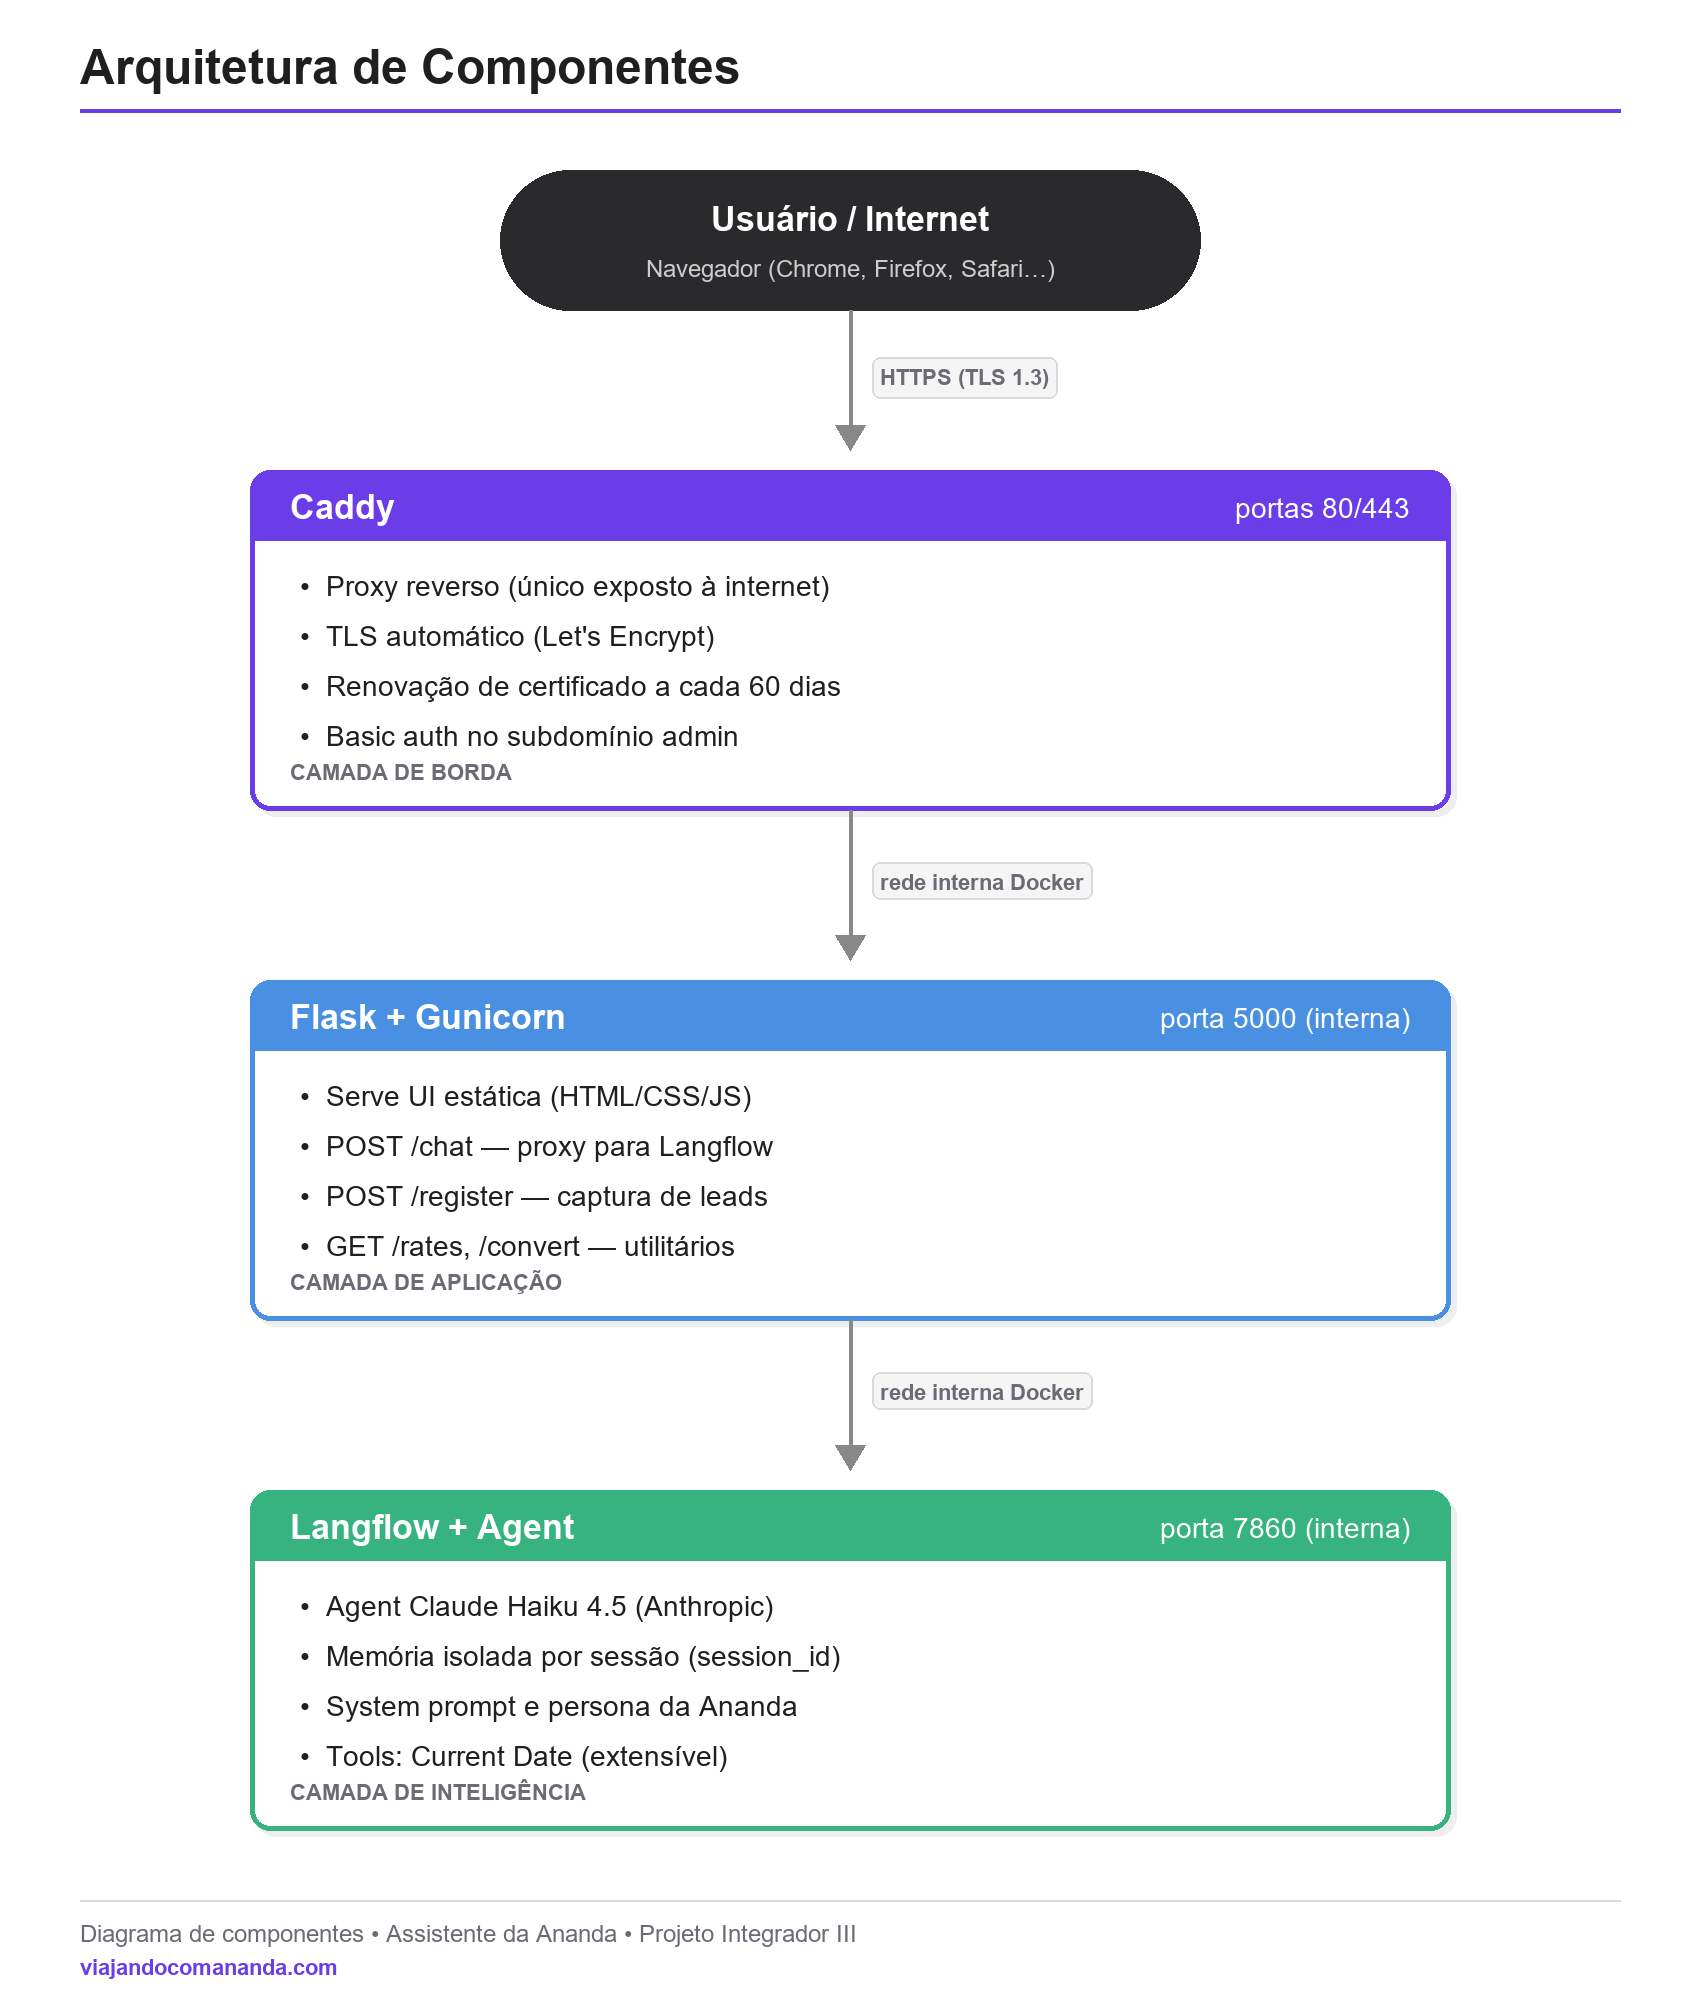
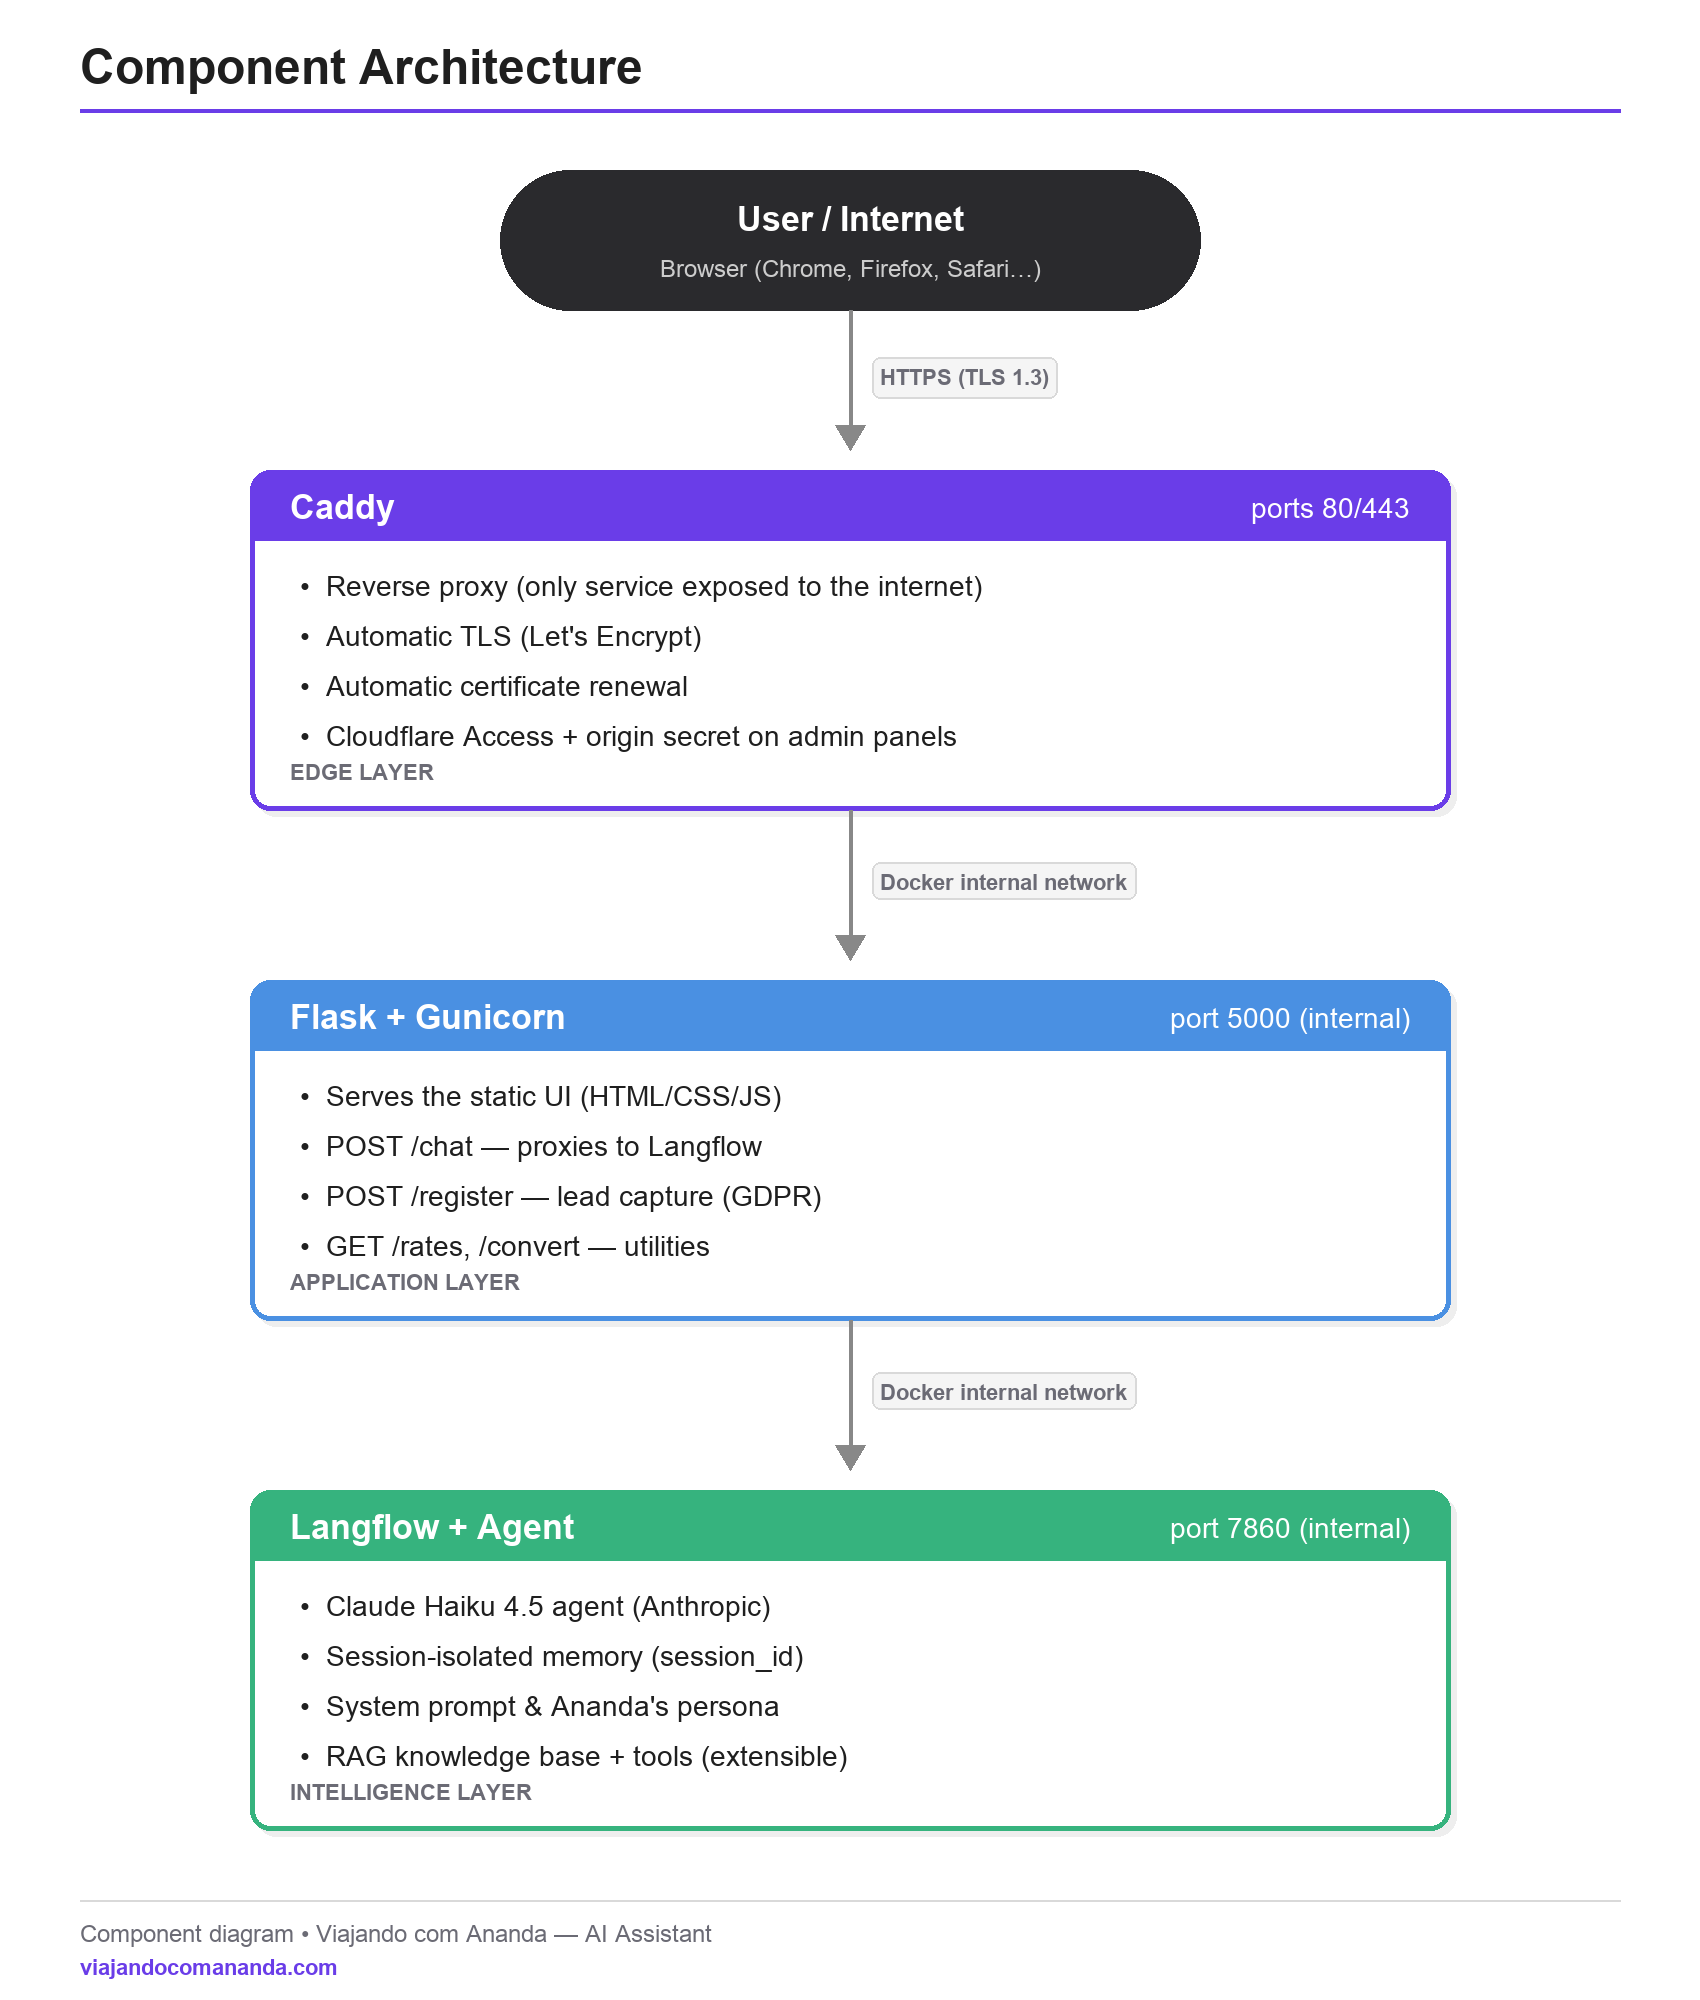
docs: diagrama de arquitetura em inglês (para o README)
- Traduz textos do gerador para inglês; fontes cross-platform (inclui macOS).
- Atualiza a linha de segurança do Caddy: Cloudflare Access + segredo de
  origem (o basic_auth foi removido na Fase 2).

diff --git a/docs/gerar_diagrama.py b/docs/gerar_diagrama.py
@@ -1,8 +1,8 @@
-"""Gera o diagrama de arquitetura como PNG (alta resolução, fundo claro)."""
+"""Generates the architecture diagram as a high-resolution PNG (light background)."""
 from PIL import Image, ImageDraw, ImageFont
 import os
 
-# Paleta de cores (alinhada com a identidade visual da aplicação)
+# Colour palette (aligned with the app's visual identity)
 ROXO_PRIMARIO = "#6A3DE8"
 ROXO_CLARO = "#F0ECFD"
 CINZA_ESCURO = "#1F1F1F"
@@ -14,25 +14,36 @@ COR_CADDY = "#6A3DE8"
 COR_FLASK = "#4A90E2"
 COR_LANGFLOW = "#36B37E"
 
-# Canvas (alta resolução para qualidade na impressão)
+# Canvas (high resolution for crisp rendering)
 LARGURA = 1700
 ALTURA = 2000
 MARGEM = 80
-LARGURA_BOX = 1200  # caixa centralizada
+LARGURA_BOX = 1200  # centred box
 OFFSET_BOX = (LARGURA - LARGURA_BOX) // 2
 
 img = Image.new("RGB", (LARGURA, ALTURA), "white")
 draw = ImageDraw.Draw(img)
 
-# Carregar fontes (fallback para default se não encontrar)
+
+# Load fonts (cross-platform: macOS, Windows, Linux; falls back to default)
 def carregar_fonte(tamanho, bold=False):
-    nomes = ["arialbd.ttf", "arial.ttf"] if bold else ["arial.ttf"]
-    for nome in nomes:
-        for base in ["C:/Windows/Fonts/", "/usr/share/fonts/truetype/dejavu/"]:
-            caminho = os.path.join(base, nome)
-            if os.path.exists(caminho):
-                return ImageFont.truetype(caminho, tamanho)
+    if bold:
+        candidatos = [
+            "/System/Library/Fonts/Supplemental/Arial Bold.ttf",
+            "C:/Windows/Fonts/arialbd.ttf",
+            "/usr/share/fonts/truetype/dejavu/DejaVuSans-Bold.ttf",
+        ]
+    else:
+        candidatos = [
+            "/System/Library/Fonts/Supplemental/Arial.ttf",
+            "C:/Windows/Fonts/arial.ttf",
+            "/usr/share/fonts/truetype/dejavu/DejaVuSans.ttf",
+        ]
+    for caminho in candidatos:
+        if os.path.exists(caminho):
+            return ImageFont.truetype(caminho, tamanho)
     return ImageFont.load_default()
+
 
 f_titulo = carregar_fonte(48, bold=True)
 f_subtitulo = carregar_fonte(34, bold=True)
@@ -40,21 +51,22 @@ f_corpo = carregar_fonte(28)
 f_pequena = carregar_fonte(24)
 f_legenda = carregar_fonte(22, bold=True)
 
+
 # ──────── Helpers ────────
 def caixa_arredondada(x1, y1, x2, y2, raio, fill, outline, largura_borda=4):
     draw.rounded_rectangle([x1, y1, x2, y2], radius=raio, fill=fill, outline=outline, width=largura_borda)
+
 
 def texto_centralizado(texto, x_centro, y, fonte, cor):
     bbox = draw.textbbox((0, 0), texto, font=fonte)
     largura = bbox[2] - bbox[0]
     draw.text((x_centro - largura // 2, y), texto, font=fonte, fill=cor)
 
+
 def seta_vertical(x, y_inicio, y_fim, label=None, label_lado="direita"):
-    """Desenha uma seta vertical com rótulo opcional ao lado."""
+    """Draws a vertical arrow with an optional side label."""
     cor = "#888888"
-    # Linha
     draw.line([(x, y_inicio), (x, y_fim - 20)], fill=cor, width=4)
-    # Ponta da seta (triângulo)
     draw.polygon(
         [(x - 15, y_fim - 25), (x + 15, y_fim - 25), (x, y_fim)],
         fill=cor,
@@ -67,7 +79,6 @@ def seta_vertical(x, y_inicio, y_fim, label=None, label_lado="direita"):
         altura_label = bbox[3] - bbox[1]
         if label_lado == "esquerda":
             x_label -= largura_label
-        # Caixa de fundo do label
         pad = 8
         draw.rounded_rectangle(
             [x_label - pad, y_label - pad, x_label + largura_label + pad, y_label + altura_label + pad + 5],
@@ -75,110 +86,104 @@ def seta_vertical(x, y_inicio, y_fim, label=None, label_lado="direita"):
         )
         draw.text((x_label, y_label), label, font=f_legenda, fill=CINZA_MEDIO)
 
+
 def caixa_componente(y_topo, altura, titulo, cor_titulo, porta, linhas_descricao, papel=None):
     x1 = OFFSET_BOX
     x2 = x1 + LARGURA_BOX
     y2 = y_topo + altura
 
-    # Sombra leve
     draw.rounded_rectangle([x1 + 6, y_topo + 6, x2 + 6, y2 + 6], radius=20, fill="#EEEEEE")
-    # Caixa principal
     caixa_arredondada(x1, y_topo, x2, y2, 20, fill=FUNDO_BOX, outline=cor_titulo, largura_borda=5)
-    # Barra colorida no topo da caixa
     draw.rounded_rectangle([x1, y_topo, x2, y_topo + 70], radius=20, fill=cor_titulo)
-    # Mascarar o arredondamento inferior da barra
     draw.rectangle([x1, y_topo + 50, x2, y_topo + 70], fill=cor_titulo)
 
-    # Texto do título (na barra colorida)
     draw.text((x1 + 40, y_topo + 18), titulo, font=f_subtitulo, fill="white")
-    # Porta (canto direito da barra)
     if porta:
         bbox = draw.textbbox((0, 0), porta, font=f_corpo)
         largura_porta = bbox[2] - bbox[0]
         draw.text((x2 - largura_porta - 40, y_topo + 22), porta, font=f_corpo, fill="white")
 
-    # Papel da camada (canto inferior direito da caixa)
     if papel:
         draw.text((x1 + 40, y2 - 50), papel, font=f_legenda, fill=CINZA_MEDIO)
 
-    # Linhas de descrição (corpo da caixa)
     y_desc = y_topo + 100
     for linha in linhas_descricao:
         draw.text((x1 + 50, y_desc), "•  " + linha, font=f_corpo, fill=CINZA_ESCURO)
         y_desc += 50
 
-# ──────── Título ────────
-draw.text((MARGEM, 40), "Arquitetura de Componentes", font=f_titulo, fill=CINZA_ESCURO)
+
+# ──────── Title ────────
+draw.text((MARGEM, 40), "Component Architecture", font=f_titulo, fill=CINZA_ESCURO)
 draw.line([(MARGEM, 110), (LARGURA - MARGEM, 110)], fill=ROXO_PRIMARIO, width=4)
 
-# ──────── Camada 1: Usuário/Internet ────────
+# ──────── Layer 1: User / Internet ────────
 y_user = 170
 x_user1 = LARGURA // 2 - 350
 x_user2 = LARGURA // 2 + 350
 caixa_arredondada(x_user1, y_user, x_user2, y_user + 140, 70, COR_INTERNET, COR_INTERNET, 4)
-texto_centralizado("Usuário / Internet", LARGURA // 2, y_user + 30, f_subtitulo, "white")
-texto_centralizado("Navegador (Chrome, Firefox, Safari…)", LARGURA // 2, y_user + 85, f_pequena, "#CCCCCC")
+texto_centralizado("User / Internet", LARGURA // 2, y_user + 30, f_subtitulo, "white")
+texto_centralizado("Browser (Chrome, Firefox, Safari…)", LARGURA // 2, y_user + 85, f_pequena, "#CCCCCC")
 
-# Seta 1 → Caddy
+# Arrow 1 → Caddy
 seta_vertical(LARGURA // 2, y_user + 140, y_user + 280, label="HTTPS (TLS 1.3)")
 
-# ──────── Camada 2: Caddy ────────
+# ──────── Layer 2: Caddy ────────
 y_caddy = y_user + 300
 altura_caddy = 340
 caixa_componente(
     y_caddy, altura_caddy,
-    "Caddy", COR_CADDY, "portas 80/443",
+    "Caddy", COR_CADDY, "ports 80/443",
     [
-        "Proxy reverso (único exposto à internet)",
-        "TLS automático (Let's Encrypt)",
-        "Renovação de certificado a cada 60 dias",
-        "Basic auth no subdomínio admin",
+        "Reverse proxy (only service exposed to the internet)",
+        "Automatic TLS (Let's Encrypt)",
+        "Automatic certificate renewal",
+        "Cloudflare Access + origin secret on admin panels",
     ],
-    papel="CAMADA DE BORDA",
+    papel="EDGE LAYER",
 )
 
-# Seta 2 → Flask
-seta_vertical(LARGURA // 2, y_caddy + altura_caddy, y_caddy + altura_caddy + 150, label="rede interna Docker")
+# Arrow 2 → Flask
+seta_vertical(LARGURA // 2, y_caddy + altura_caddy, y_caddy + altura_caddy + 150, label="Docker internal network")
 
-# ──────── Camada 3: Flask ────────
+# ──────── Layer 3: Flask ────────
 y_flask = y_caddy + altura_caddy + 170
 altura_flask = 340
 caixa_componente(
     y_flask, altura_flask,
-    "Flask + Gunicorn", COR_FLASK, "porta 5000 (interna)",
+    "Flask + Gunicorn", COR_FLASK, "port 5000 (internal)",
     [
-        "Serve UI estática (HTML/CSS/JS)",
-        "POST /chat — proxy para Langflow",
-        "POST /register — captura de leads",
-        "GET /rates, /convert — utilitários",
+        "Serves the static UI (HTML/CSS/JS)",
+        "POST /chat — proxies to Langflow",
+        "POST /register — lead capture (GDPR)",
+        "GET /rates, /convert — utilities",
     ],
-    papel="CAMADA DE APLICAÇÃO",
+    papel="APPLICATION LAYER",
 )
 
-# Seta 3 → Langflow
-seta_vertical(LARGURA // 2, y_flask + altura_flask, y_flask + altura_flask + 150, label="rede interna Docker")
+# Arrow 3 → Langflow
+seta_vertical(LARGURA // 2, y_flask + altura_flask, y_flask + altura_flask + 150, label="Docker internal network")
 
-# ──────── Camada 4: Langflow ────────
+# ──────── Layer 4: Langflow ────────
 y_langflow = y_flask + altura_flask + 170
 altura_langflow = 340
 caixa_componente(
     y_langflow, altura_langflow,
-    "Langflow + Agent", COR_LANGFLOW, "porta 7860 (interna)",
+    "Langflow + Agent", COR_LANGFLOW, "port 7860 (internal)",
     [
-        "Agent Claude Haiku 4.5 (Anthropic)",
-        "Memória isolada por sessão (session_id)",
-        "System prompt e persona da Ananda",
-        "Tools: Current Date (extensível)",
+        "Claude Haiku 4.5 agent (Anthropic)",
+        "Session-isolated memory (session_id)",
+        "System prompt & Ananda's persona",
+        "RAG knowledge base + tools (extensible)",
     ],
-    papel="CAMADA DE INTELIGÊNCIA",
+    papel="INTELLIGENCE LAYER",
 )
 
-# ──────── Rodapé com legenda ────────
+# ──────── Footer ────────
 y_rodape = ALTURA - 100
 draw.line([(MARGEM, y_rodape), (LARGURA - MARGEM, y_rodape)], fill=CINZA_BORDA, width=2)
 draw.text(
     (MARGEM, y_rodape + 20),
-    "Diagrama de componentes • Assistente da Ananda • Projeto Integrador III",
+    "Component diagram • Viajando com Ananda — AI Assistant",
     font=f_pequena, fill=CINZA_MEDIO,
 )
 draw.text(
@@ -187,9 +192,9 @@ draw.text(
     font=f_legenda, fill=ROXO_PRIMARIO,
 )
 
-# Salvar
+# Save
 saida = os.path.join(os.path.dirname(os.path.abspath(__file__)), "diagrama_arquitetura.png")
 img.save(saida, "PNG", optimize=True)
-print("Diagrama gerado:", saida)
-print("Tamanho:", os.path.getsize(saida) // 1024, "KB")
-print("Dimensoes:", LARGURA, "x", ALTURA)
+print("Diagram generated:", saida)
+print("Size:", os.path.getsize(saida) // 1024, "KB")
+print("Dimensions:", LARGURA, "x", ALTURA)